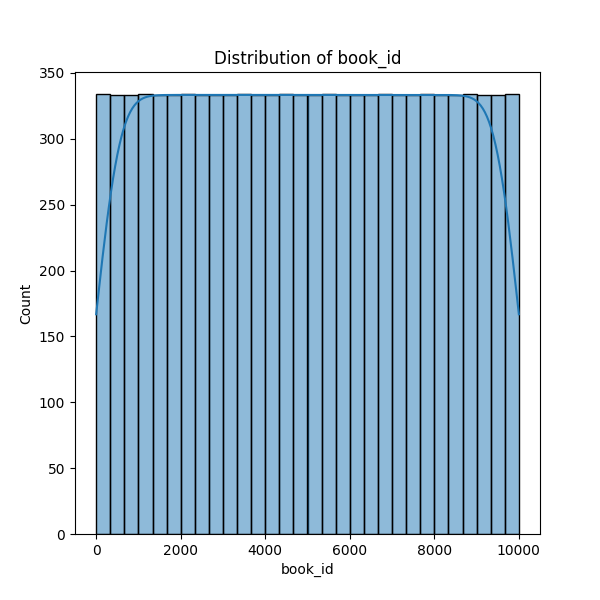
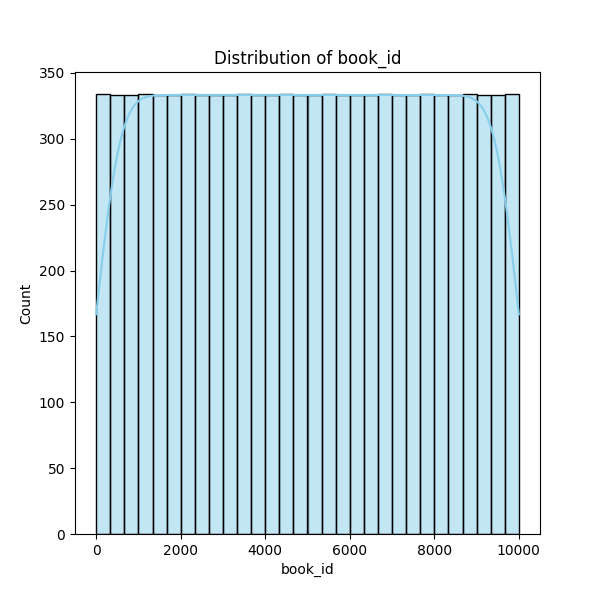
Updated code

diff --git a/autolysis.py b/autolysis.py
@@ -8,6 +8,7 @@
 #   "chardet",
 #   "numpy",
 #   "requests",
+#   "scipy",
 # ]
 # ///
 
@@ -47,6 +48,15 @@ def generate_summary(df):
         "missing_values": df.isnull().sum().to_dict(),
         "summary_statistics": df.describe(include='all').to_dict(),
     }
+
+    # Detect outliers using Z-scores (optional: could improve this section based on dataset)
+    from scipy import stats
+    numeric_cols = df.select_dtypes(include=['number'])
+    z_scores = stats.zscore(numeric_cols.fillna(0))
+    outliers = (z_scores > 3).sum(axis=0)  # Consider Z-score > 3 as an outlier
+    summary['outliers'] = {col: outliers.iloc[i] for i, col in enumerate(numeric_cols.columns)}
+
+
     return summary
 
 def visualize_data(df):
@@ -68,7 +78,7 @@ def visualize_data(df):
     # Distribution plots for up to 2 numeric columns
     for i, col in enumerate(numeric_cols.columns[:2]):
         plt.figure(figsize=(6, 6))  # Adjust dimensions to 512x512 px
-        sns.histplot(df[col], kde=True, bins=30)
+        sns.histplot(df[col], kde=True, bins=30, color="skyblue" if df[col].mean() > 0 else "salmon")
         plt.title(f"Distribution of {col}")
         dist_file = f"{col}_distribution.png"
         plt.savefig(dist_file, dpi=100)
@@ -77,7 +87,7 @@ def visualize_data(df):
 
     return output_files
 
-def query_llm(prompt, token):
+def query_llm(prompt, token, analysis_results=None):
     """Query the GPT-4o-Mini LLM via AI Proxy and return the response."""
     headers = {
         "Authorization": f"Bearer {token}",
@@ -90,6 +100,14 @@ def query_llm(prompt, token):
             {"role": "user", "content": prompt},
         ]
     }
+    
+    # Adjusting the prompt based on missing values or outliers if present
+    if analysis_results and 'outliers' in analysis_results:
+        prompt += "\nAdditionally, the dataset has outliers in the following columns:\n"
+        for col, count in analysis_results['outliers'].items():
+            if count > 0:
+                prompt += f"- {col}: {count} potential outliers\n"
+
     api_url = "https://aiproxy.sanand.workers.dev/openai/v1/chat/completions"
     try:
         response = requests.post(api_url, headers=headers, json=payload)
@@ -115,6 +133,12 @@ def write_readme(summary, analysis, insights, output_files):
         f.write("### Missing Values:\n")
         for col, missing in summary['missing_values'].items():
             f.write(f"- {col}: {missing} missing values\n")
+        f.write("\n")
+        
+        f.write("### Outliers Detected:\n")
+        for col, count in summary['outliers'].items():
+            if count > 0:
+                f.write(f"- {col}: {count} potential outliers\n")
         f.write("\n")
         
         # Analysis and Insights
@@ -162,7 +186,7 @@ def main():
         "\n".join([f"- {col['name']} ({col['type']}): {col['examples']} examples; {summary['missing_values'][col['name']]} missing values" for col in summary['columns']]) +
         "\nPlease analyze this dataset and provide insights as a story."
     )
-    insights = query_llm(prompt, token)
+    insights = query_llm(prompt, token, analysis_results=summary)
 
     # Visualize data
     output_files = visualize_data(df)
